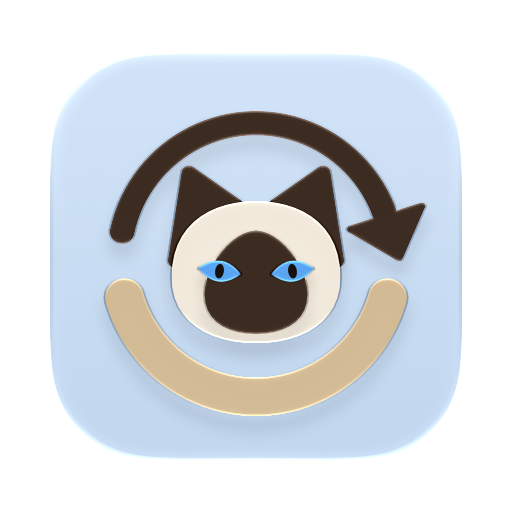
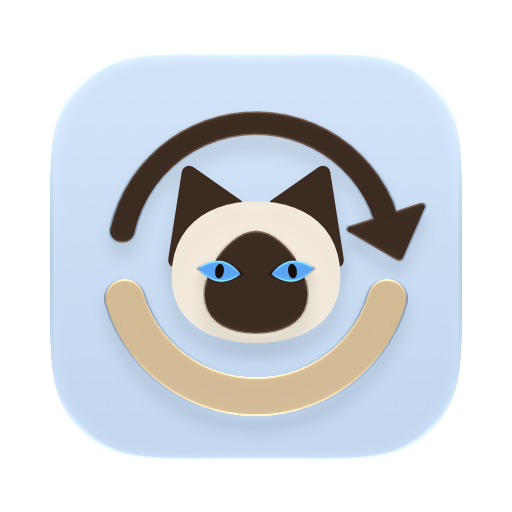
Sync content through 0.4.8

diff --git a/content/changelog/ru.md b/content/changelog/ru.md
@@ -2,6 +2,12 @@
 
 Это перевод файла `CHANGELOG.md` на русский язык. Официальной версией остаётся англоязычный оригинал, а версии, отсутствующие в этом переводе, автоматически отображаются на английском языке.
 
+## 0.4.8
+
+**Новая иконка теперь правильно выглядит в macOS 26.** В тёмном стиле стрелка и кольцо больше не сливаются в сплошные пятна, а у головы и ушей кошки ровные края вместо зубчатых.
+
+**Закрытие верстака теперь освобождает память, которую занимали заметки о выпуске.** Раньше открытая страница заметок о выпуске продолжала работать в фоне, пока вы не выходили из DuoUpdater.
+
 ## 0.4.7
 
 **Новая иконка.** Свернувшаяся клубком сиамская кошка, чей хвост — стрелка обновления. В macOS 26 и новее она следует выбранному вами стилю иконок: светлому, тёмному или тонированному.

diff --git a/content/changelog/ja.md b/content/changelog/ja.md
@@ -2,6 +2,12 @@
 
 このページは `CHANGELOG.md` の日本語訳です。英語版が権威あるバージョンであり、ここに記載されていないバージョンは自動的に英語版へフォールバックします。
 
+## 0.4.8
+
+**新しい App アイコンが macOS 26 で正しく表示されるようになりました。** ダークスタイルで矢印とリングが塗りつぶされた塊のようにつながることはなくなり、猫の頭と耳の輪郭もギザギザせずなめらかになりました。
+
+**ワークベンチを閉じると、リリースノートが使っていたメモリが解放されるようになりました。** 以前は、開いたリリースノートのページが DuoUpdater を終了するまでバックグラウンドで動き続けていました。
+
 ## 0.4.7
 
 **新しい App アイコン。** 丸くなったシャム猫で、しっぽが更新の矢印になっています。macOS 26 以降では、選択しているライト・ダーク・カラーのアイコンスタイルに合わせて表示されます。

diff --git a/content/changelog/pt-br.md b/content/changelog/pt-br.md
@@ -2,6 +2,12 @@
 
 Esta é a tradução para o português do Brasil do arquivo CHANGELOG.md. A versão em inglês prevalece em caso de divergência. Os números de versão que não aparecem aqui são mostrados automaticamente em inglês na janela Novidades.
 
+## 0.4.8
+
+**O novo ícone agora aparece corretamente no macOS 26.** No estilo escuro, a seta e o anel não se fundem mais em manchas sólidas, e a cabeça e as orelhas do gato têm bordas limpas em vez de serrilhadas.
+
+**Fechar a bancada agora libera a memória usada pelas notas de versão.** Antes, uma página de notas de versão que você tinha aberto continuava rodando em segundo plano até você sair do DuoUpdater.
+
 ## 0.4.7
 
 **Um novo ícone.** Um gato siamês enrolado, com o rabo formando a seta de atualizar. No macOS 26 e posterior, ele segue o seu estilo de ícones claro, escuro ou colorido.

diff --git a/content/changelog/es.md b/content/changelog/es.md
@@ -2,6 +2,12 @@
 
 Esta es la traducción al español del archivo CHANGELOG.md. La versión en inglés es la autoridad en caso de discrepancias. Los números de versión no incluidos aquí se mostrarán automáticamente en inglés en la ventana de Novedades.
 
+## 0.4.8
+
+**El nuevo icono ya se ve bien en macOS 26.** En el estilo oscuro, la flecha y el aro ya no se funden en manchas sólidas, y la cabeza y las orejas del gato tienen bordes limpios en lugar de dentados.
+
+**Al cerrar el workbench se libera la memoria que usaban sus notas de versión.** Antes, una página de notas de versión que hubieras abierto seguía ejecutándose en segundo plano hasta que salías de DuoUpdater.
+
 ## 0.4.7
 
 **Un icono nuevo.** Un gato siamés acurrucado cuya cola es la flecha de actualizar. En macOS 26 y posteriores sigue tu estilo de iconos claro, oscuro o tintado.

diff --git a/content/changelog/tr.md b/content/changelog/tr.md
@@ -2,6 +2,12 @@
 
 Bu, `CHANGELOG.md` dosyasının Türkçe çevirisidir. Geçerli olan İngilizce sürümdür; burada yer almayan eski sürümler otomatik olarak İngilizce gösterilir.
 
+## 0.4.8
+
+**Yeni uygulama simgesi artık macOS 26’da doğru görünüyor.** Koyu stilde ok ve halka artık birbirine karışıp dolu lekelere dönüşmüyor; kedinin başı ve kulakları da tırtıklı değil, temiz kenarlı.
+
+**Çalışma alanını kapatmak artık sürüm notlarının kullandığı belleği serbest bırakıyor.** Önceden, açtığınız bir sürüm notları sayfası DuoUpdater’dan çıkana kadar arka planda çalışmaya devam ediyordu.
+
 ## 0.4.7
 
 **Yeni bir uygulama simgesi.** Kıvrılmış bir Siyam kedisi; kuyruğu yenileme okunu oluşturuyor. macOS 26 ve sonrasında seçtiğiniz açık, koyu veya renklendirilmiş simge stiline uyuyor.

diff --git a/content/changelog/fr.md b/content/changelog/fr.md
@@ -2,6 +2,12 @@
 
 Ceci est la traduction de `CHANGELOG.md`. La version anglaise fait autorité. Les versions non énumérées ici reviennent automatiquement à l’anglais.
 
+## 0.4.8
+
+**La nouvelle icône s’affiche enfin correctement sur macOS 26.** En style sombre, la flèche et l’anneau ne se fondent plus en taches pleines, et la tête et les oreilles du chat ont des bords nets au lieu de bords crénelés.
+
+**Fermer l’établi libère désormais la mémoire utilisée par ses notes de version.** Auparavant, une page de notes de version ouverte continuait de tourner en arrière-plan jusqu’à ce que vous quittiez DuoUpdater.
+
 ## 0.4.7
 
 **Une nouvelle icône.** Un chat siamois enroulé sur lui-même, dont la queue forme la flèche d’actualisation. Sur macOS 26 et ultérieur, elle suit votre style d’icônes clair, sombre ou teinté.

diff --git a/content/changelog/de.md b/content/changelog/de.md
@@ -2,6 +2,12 @@
 
 Dies ist eine deutsche Übersetzung von `CHANGELOG.md`. Die englische Fassung ist maßgeblich; frühere Versionen, die hier nicht aufgeführt sind, fallen automatisch auf Englisch zurück.
 
+## 0.4.8
+
+**Das neue App-Symbol sieht unter macOS 26 jetzt richtig aus.** Im dunklen Stil verschmelzen Pfeil und Ring nicht mehr zu massiven Flecken, und Kopf und Ohren der Katze haben saubere statt gezackter Kanten.
+
+**Wenn du die Werkbank schließt, wird jetzt der Speicher ihrer Versionshinweise freigegeben.** Bisher lief eine geöffnete Seite mit Versionshinweisen im Hintergrund weiter, bis du DuoUpdater beendet hast.
+
 ## 0.4.7
 
 **Ein neues App-Symbol.** Eine zusammengerollte Siamkatze, deren Schwanz der Aktualisieren-Pfeil ist. Ab macOS 26 folgt es deinem hellen, dunklen oder getönten Symbolstil.

diff --git a/content/changelog/it.md b/content/changelog/it.md
@@ -2,6 +2,12 @@
 
 Questa è la traduzione di `CHANGELOG.md`. In caso di differenze fa fede la versione inglese. Le versioni non elencate qui vengono mostrate automaticamente in inglese.
 
+## 0.4.8
+
+**La nuova icona ora si vede correttamente su macOS 26.** Nello stile scuro la freccia e l’anello non si fondono più in macchie piene, e la testa e le orecchie del gatto hanno bordi netti invece che seghettati.
+
+**Chiudere il banco di lavoro ora libera la memoria usata dalle sue note di rilascio.** Prima, una pagina di note di rilascio che avevi aperto restava attiva in background finché non uscivi da DuoUpdater.
+
 ## 0.4.7
 
 **Una nuova icona.** Un gatto siamese acciambellato, con la coda che fa da freccia di aggiornamento. Su macOS 26 e successivi segue il tuo stile di icone chiaro, scuro o colorato.

diff --git a/content/changelog.md b/content/changelog.md
@@ -19,6 +19,12 @@ release note is debugging our code:
 
 Versions before 0.3.80 are the old long-form style; leave them as shipped.
 
+## 0.4.8
+
+**The new app icon now looks right on macOS 26.** In dark mode the arrow and the ring no longer run together into solid blobs, and the cat's head and ears have clean edges instead of jagged ones.
+
+**Closing the Workbench now frees the memory its release notes were using.** Before, a release notes page you had opened kept running in the background until you quit DuoUpdater.
+
 ## 0.4.7
 
 **A new app icon.** A Siamese cat curled up, with its tail as the refresh arrow. On macOS 26 and later it follows your light, dark or tinted icon style.

diff --git a/content/changelog/zh-hans.md b/content/changelog/zh-hans.md
@@ -2,6 +2,12 @@
 
 本文档是 CHANGELOG.md 的简体中文翻译。英文版本是权威参考。未在本文档中列出的版本将自动回退至英文显示。
 
+## 0.4.8
+
+**新图标在 macOS 26 上终于显示正常了。** 深色风格下，箭头和圆环不再糊成一整块，猫的头和耳朵边缘也不再有锯齿。
+
+**关闭工作台后，发布说明占用的内存会随之释放。** 以前打开过的发布说明页面会一直在后台运行，直到退出 DuoUpdater。
+
 ## 0.4.7
 
 **全新的应用图标。** 一只蜷起来的暹罗猫，尾巴就是刷新箭头。在 macOS 26 及以后，它会跟随你选择的浅色、深色或着色图标风格。

diff --git a/content/changelog/zh-hant.md b/content/changelog/zh-hant.md
@@ -2,6 +2,12 @@
 
 本文件是 CHANGELOG.md 的繁體中文翻譯，以英文版為準。本文件中未列出的版本會自動改以英文顯示。
 
+## 0.4.8
+
+**新圖像在 macOS 26 上終於顯示正常了。** 深色風格下，箭頭和圓環不再糊成一整塊，貓的頭和耳朵邊緣也不再有鋸齒。
+
+**關閉工作台後，發布說明佔用的記憶體會隨之釋放。** 以前打開過的發布說明頁面會一直在背景執行，直到結束 DuoUpdater。
+
 ## 0.4.7
 
 **全新的 App 圖像。** 一隻蜷起來的暹羅貓，尾巴就是重新整理箭頭。在 macOS 26 及以後，它會跟隨你選擇的淺色、深色或著色圖像風格。
